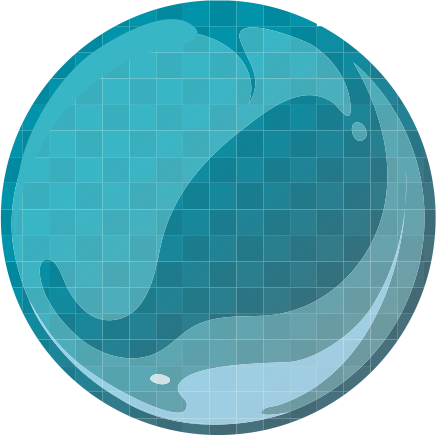
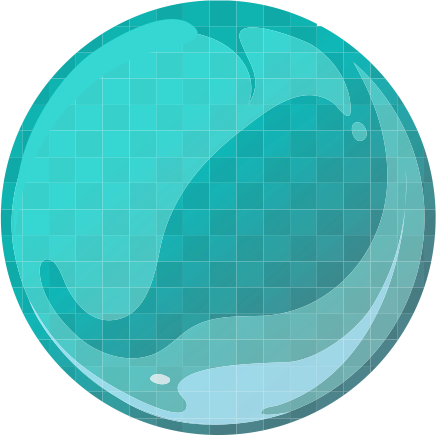
finalizando seção primo

diff --git a/css/style.css b/css/style.css
@@ -256,7 +256,7 @@ main section.cartelas .wrap_estatisticas > .soma_sorteados{
     max-width: 70vw;
     height: 27px;
     margin: auto;
-    margin-bottom: 10px;
+    margin-bottom: 15px;
     position: relative;
 }
 .wrap_estatisticas > .soma_sorteados > .range_soma_sorteados{
@@ -309,9 +309,10 @@ main section.cartelas .wrap_estatisticas > .soma_sorteados{
 main section.cartelas .wrap_estatisticas > .primo_sorteado{
     display: flex;
     justify-content: space-between;
-    max-width: 50vw;
+    align-items: center;
+    max-width: 45vw;
     margin: auto;
-    margin-bottom: 10px;
+    margin-bottom: 30px;
 }
 
 .wrap_estatisticas > .primo_sorteado > .qtd_primo{
@@ -325,4 +326,40 @@ main section.cartelas .wrap_estatisticas > .primo_sorteado{
     background-repeat: no-repeat;
     background-size: contain;
     color: var(--paleta_monocromatica_cor01);
+    text-shadow: 1px 1px 1px #000000a9;
+    filter: drop-shadow(2px 2px 2px #00000049);
+}
+
+.wrap_estatisticas > .primo_sorteado > .qtd_primo.select{
+    background-image: url('../img/esfera-2.png');
+}
+.wrap_estatisticas > .primo_sorteado > .qtd_primo:first-child{
+    width: 12px;
+    height: 12px;
+    font-size: 8px;
+}
+.wrap_estatisticas > .primo_sorteado > .qtd_primo:nth-child(2){
+    width: 15px;
+    height: 15px;
+    font-size: 10px;
+}
+.wrap_estatisticas > .primo_sorteado > .qtd_primo:nth-child(3){
+    width: 18px;
+    height: 18px;
+    font-size: 12px;
+}
+.wrap_estatisticas > .primo_sorteado > .qtd_primo:nth-child(4){
+    width: 21px;
+    height: 21px;
+    font-size: 12px;
+}
+.wrap_estatisticas > .primo_sorteado > .qtd_primo:nth-child(5){
+    width: 23px;
+    height: 23px;
+    font-size: 14px;
+}
+.wrap_estatisticas > .primo_sorteado > .qtd_primo:nth-child(6){
+    width: 26px;
+    height: 26px;
+    font-size: 17px;
 }

diff --git a/css/style-landscape.css b/css/style-landscape.css
@@ -17,5 +17,10 @@ main section.cartelas .cartela_estatistica button{
 
 /******************************** SOMA SORTEADOS ********************************/
 main section.cartelas .wrap_estatisticas > .soma_sorteados{
-    max-width: 50vw;
+    max-width: 55vw;
+}
+
+/******************************** PRIMO SORTEADOS ********************************/
+main section.cartelas .wrap_estatisticas > .primo_sorteado{
+    max-width: 25vw;
 }

diff --git a/index.html b/index.html
@@ -57,7 +57,7 @@
                     <span class="qtd_primo">0</span>
                     <span class="qtd_primo">3</span>
                     <span class="qtd_primo">1</span>
-                    <span class="qtd_primo">2</span>
+                    <span class="qtd_primo select">2</span>
                 </div>
                 <div class="cartela_estatistica"></div>
             </div>            
